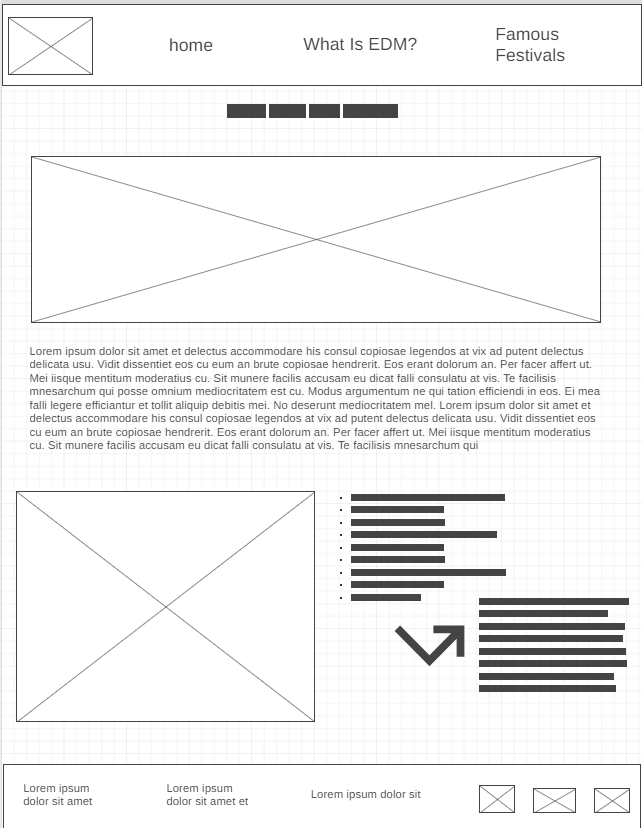
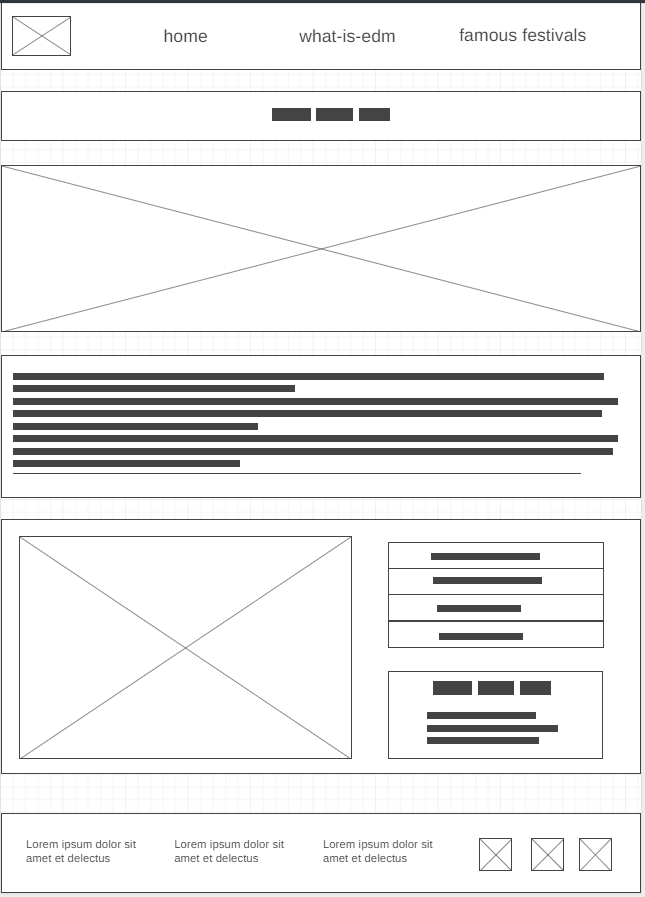
12week style change

diff --git a/edm/styles/style.css b/edm/styles/style.css
@@ -144,30 +144,31 @@ footer .social img {
     text-align: center;
     background-color: #000814;
     padding: 10px;
-    margin-top: 30px;
+    margin-top: 40px;
 }
 
 #what-img {
     width: 100%;
-    height: 500px;
+    height: 450px;
+    margin-top: 2em;
 }
 
 #what-msg {
     font-family: Candara, Helvetica, Verdana;
     font-size: 24px;
-    margin-top: 50px;
+    margin-top: 4em;
     text-align: center;
     color: #000814;
     letter-spacing: 1px;
     line-height: 1.6;
     background-color: #ffd60a;
     border-radius: 20px;
-    padding: 20px;
+    padding: 40px;
 }
 .what-grid {
     display: grid;
     grid-template-columns: 2fr 1fr;
-    margin-top: 3em;
+    margin-top: 7em;
     background-color: #ffd60a;
     padding: 30px;
     border-radius: 20px;
